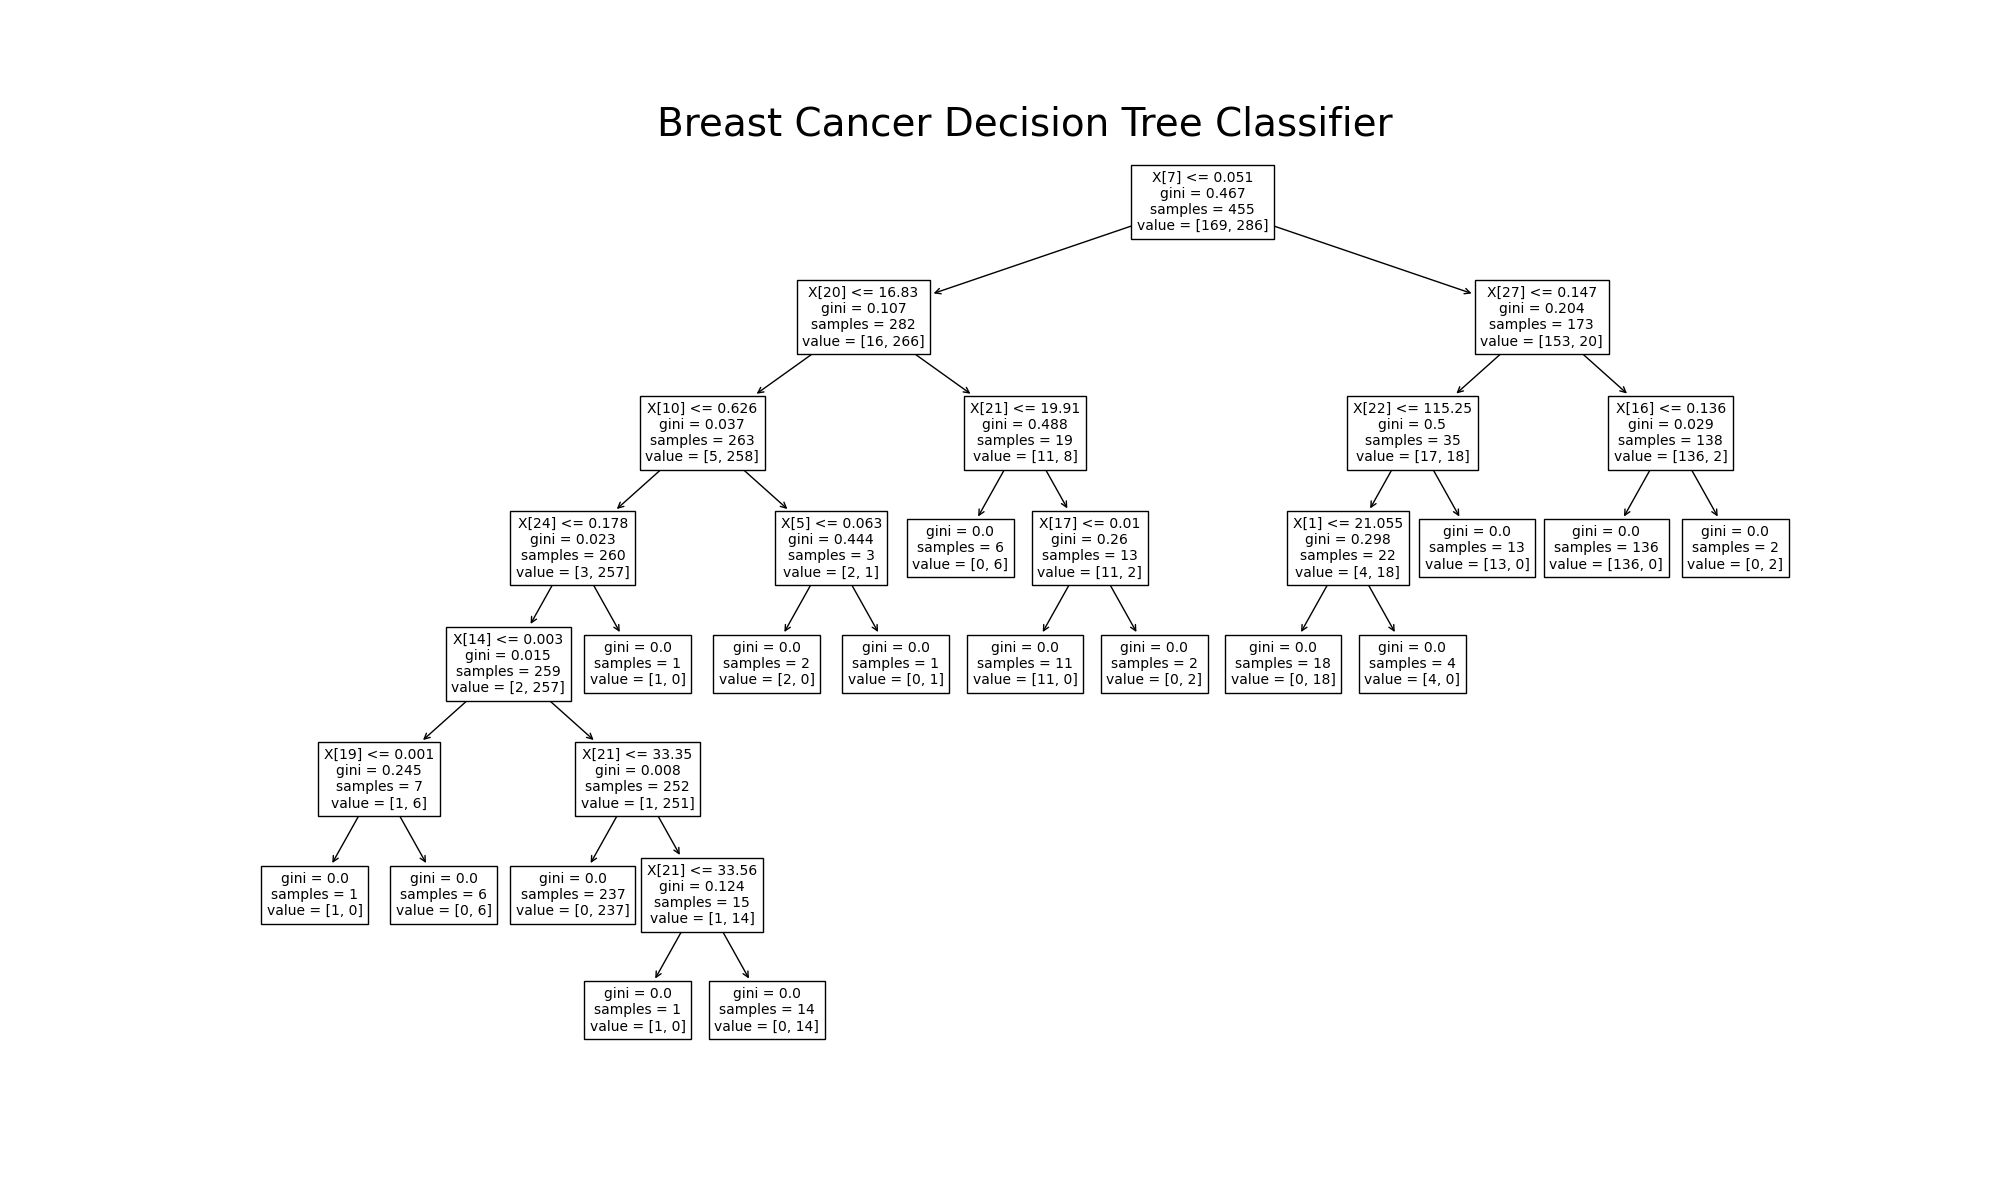
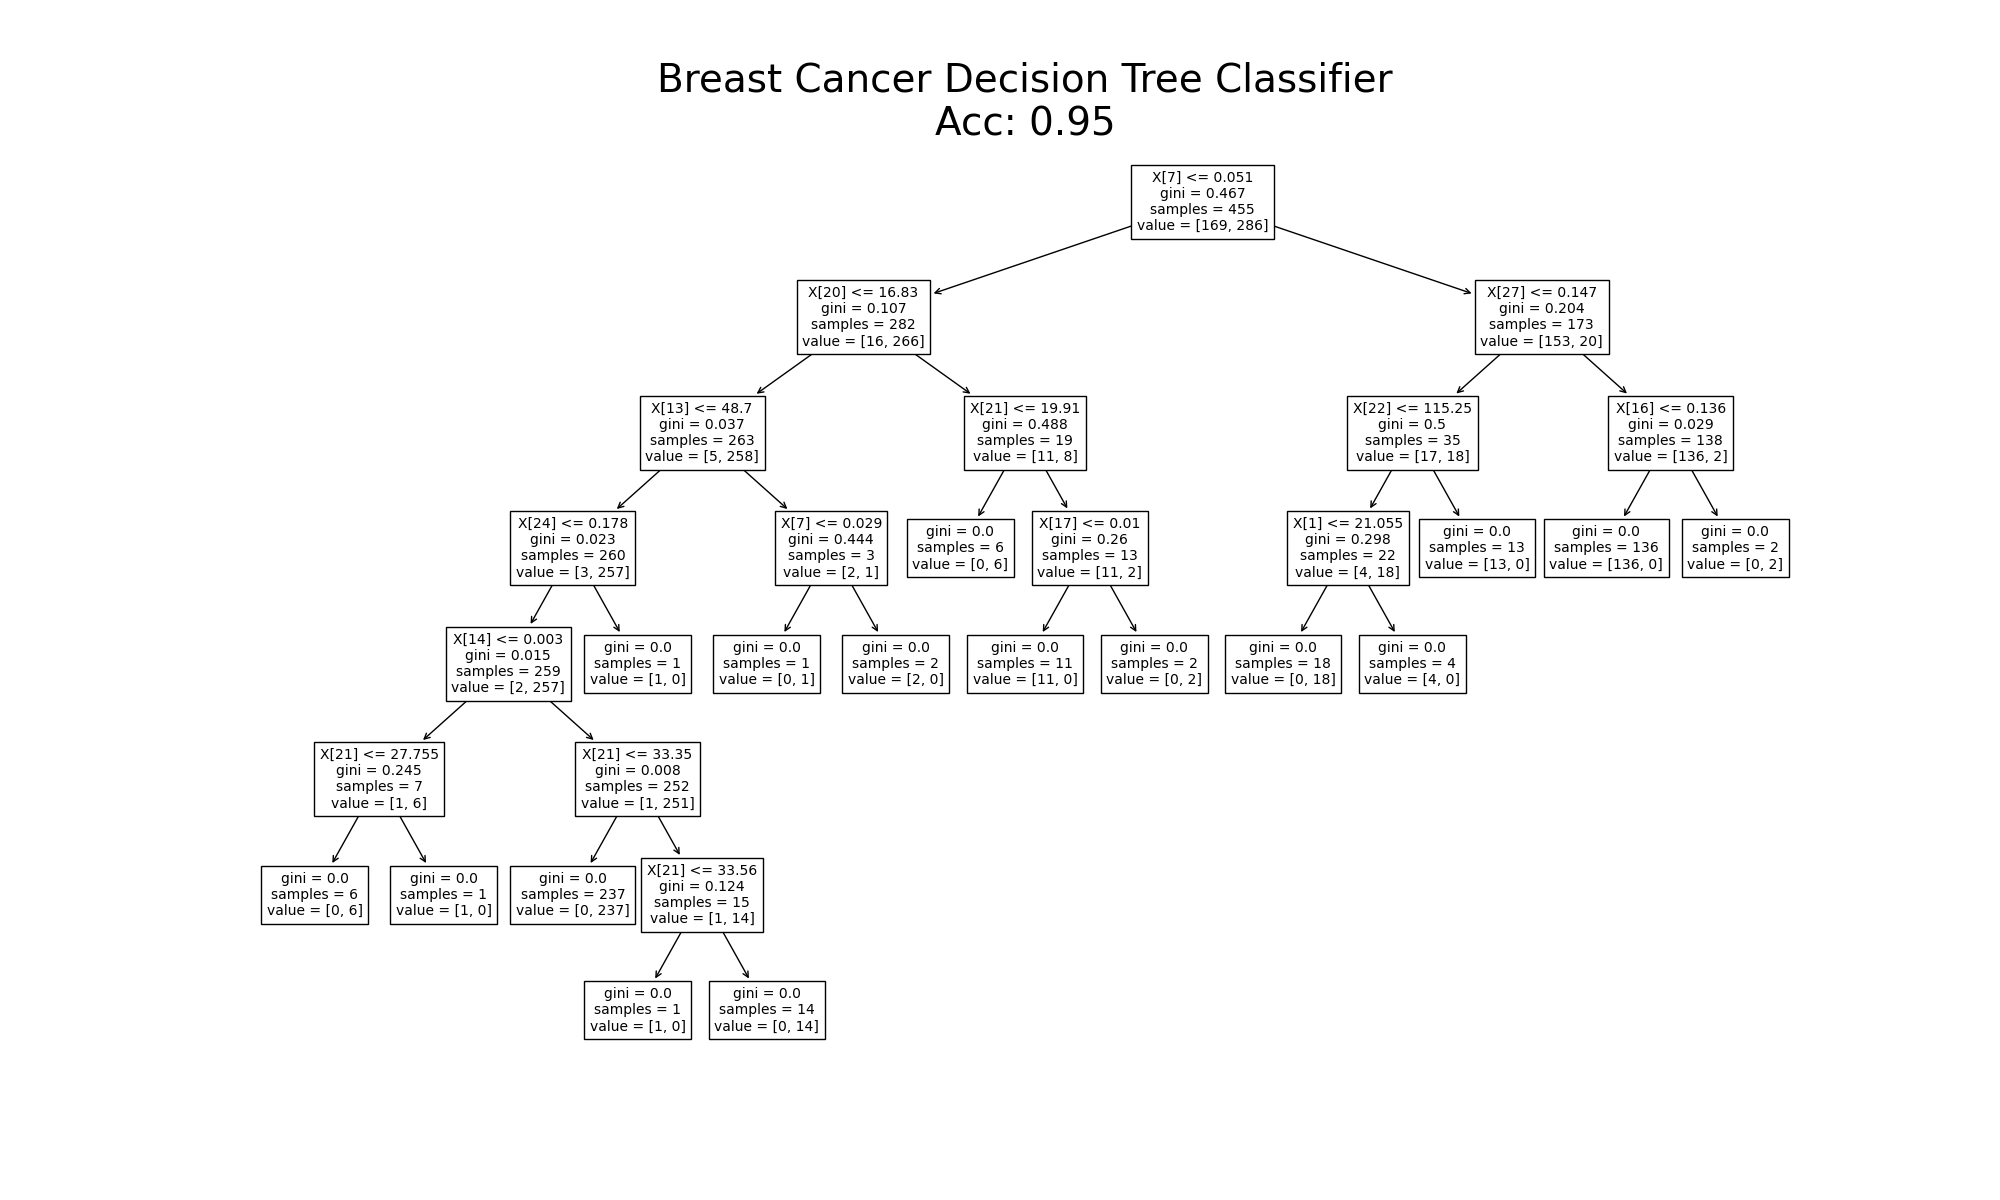
add 6.2

Changed region(s): [[0.31, 0.0617, 0.713, 0.1233], [0.155, 0.6167, 0.248, 0.6475]]

diff --git a/6.2/main.py b/6.2/main.py
@@ -4,6 +4,7 @@ from sklearn.metrics import accuracy_score
 import pandas as pd
 from sklearn import tree
 import matplotlib.pyplot as plt
+import numpy as np
 
 def classify(dataset, name):
     dataset = load_breast_cancer(as_frame=True)
@@ -17,7 +18,7 @@ def classify(dataset, name):
     acc = accuracy_score(y_test, y_pred)
     plt.figure(figsize=(20, 12))
     tree.plot_tree(clf, fontsize=10)
-    plt.title("{} Decision Tree Classifier".format(name), fontsize = 28)
+    plt.title("{} Decision Tree Classifier\nAcc: {:.2f}".format(name, acc), fontsize = 28)
     plt.savefig('{}.1.png'.format(name.strip().lower()))
     print('Decision tree acc: {}'.format(acc))
 
@@ -28,10 +29,15 @@ def classify(dataset, name):
     acc = accuracy_score(y_test, y_pred)
     plt.figure(figsize=(20, 12))
     tree.plot_tree(clf, fontsize=10)
-    plt.title("{} Decision Tree Classifier with max_depth=2".format(name), fontsize=28)
+    plt.title("{} Decision Tree Classifier with max_depth=2\nAcc: {:.2f}".format(name, acc), fontsize=28)
     plt.savefig('{}.2.png'.format(name.strip().lower()))
     print('Decision tree (max depth=2) acc: {}'.format(acc))
 
 if __name__ == '__main__':
     classify(load_breast_cancer(), 'Breast Cancer')
     classify(load_digits(), 'Digits')
+    # random dataset 
+    data = np.random.rand(15,200)
+    target = np.random.randint(2, size=data.shape[1])
+    classify(pd.DataFrame(data), 'Random')
+    
